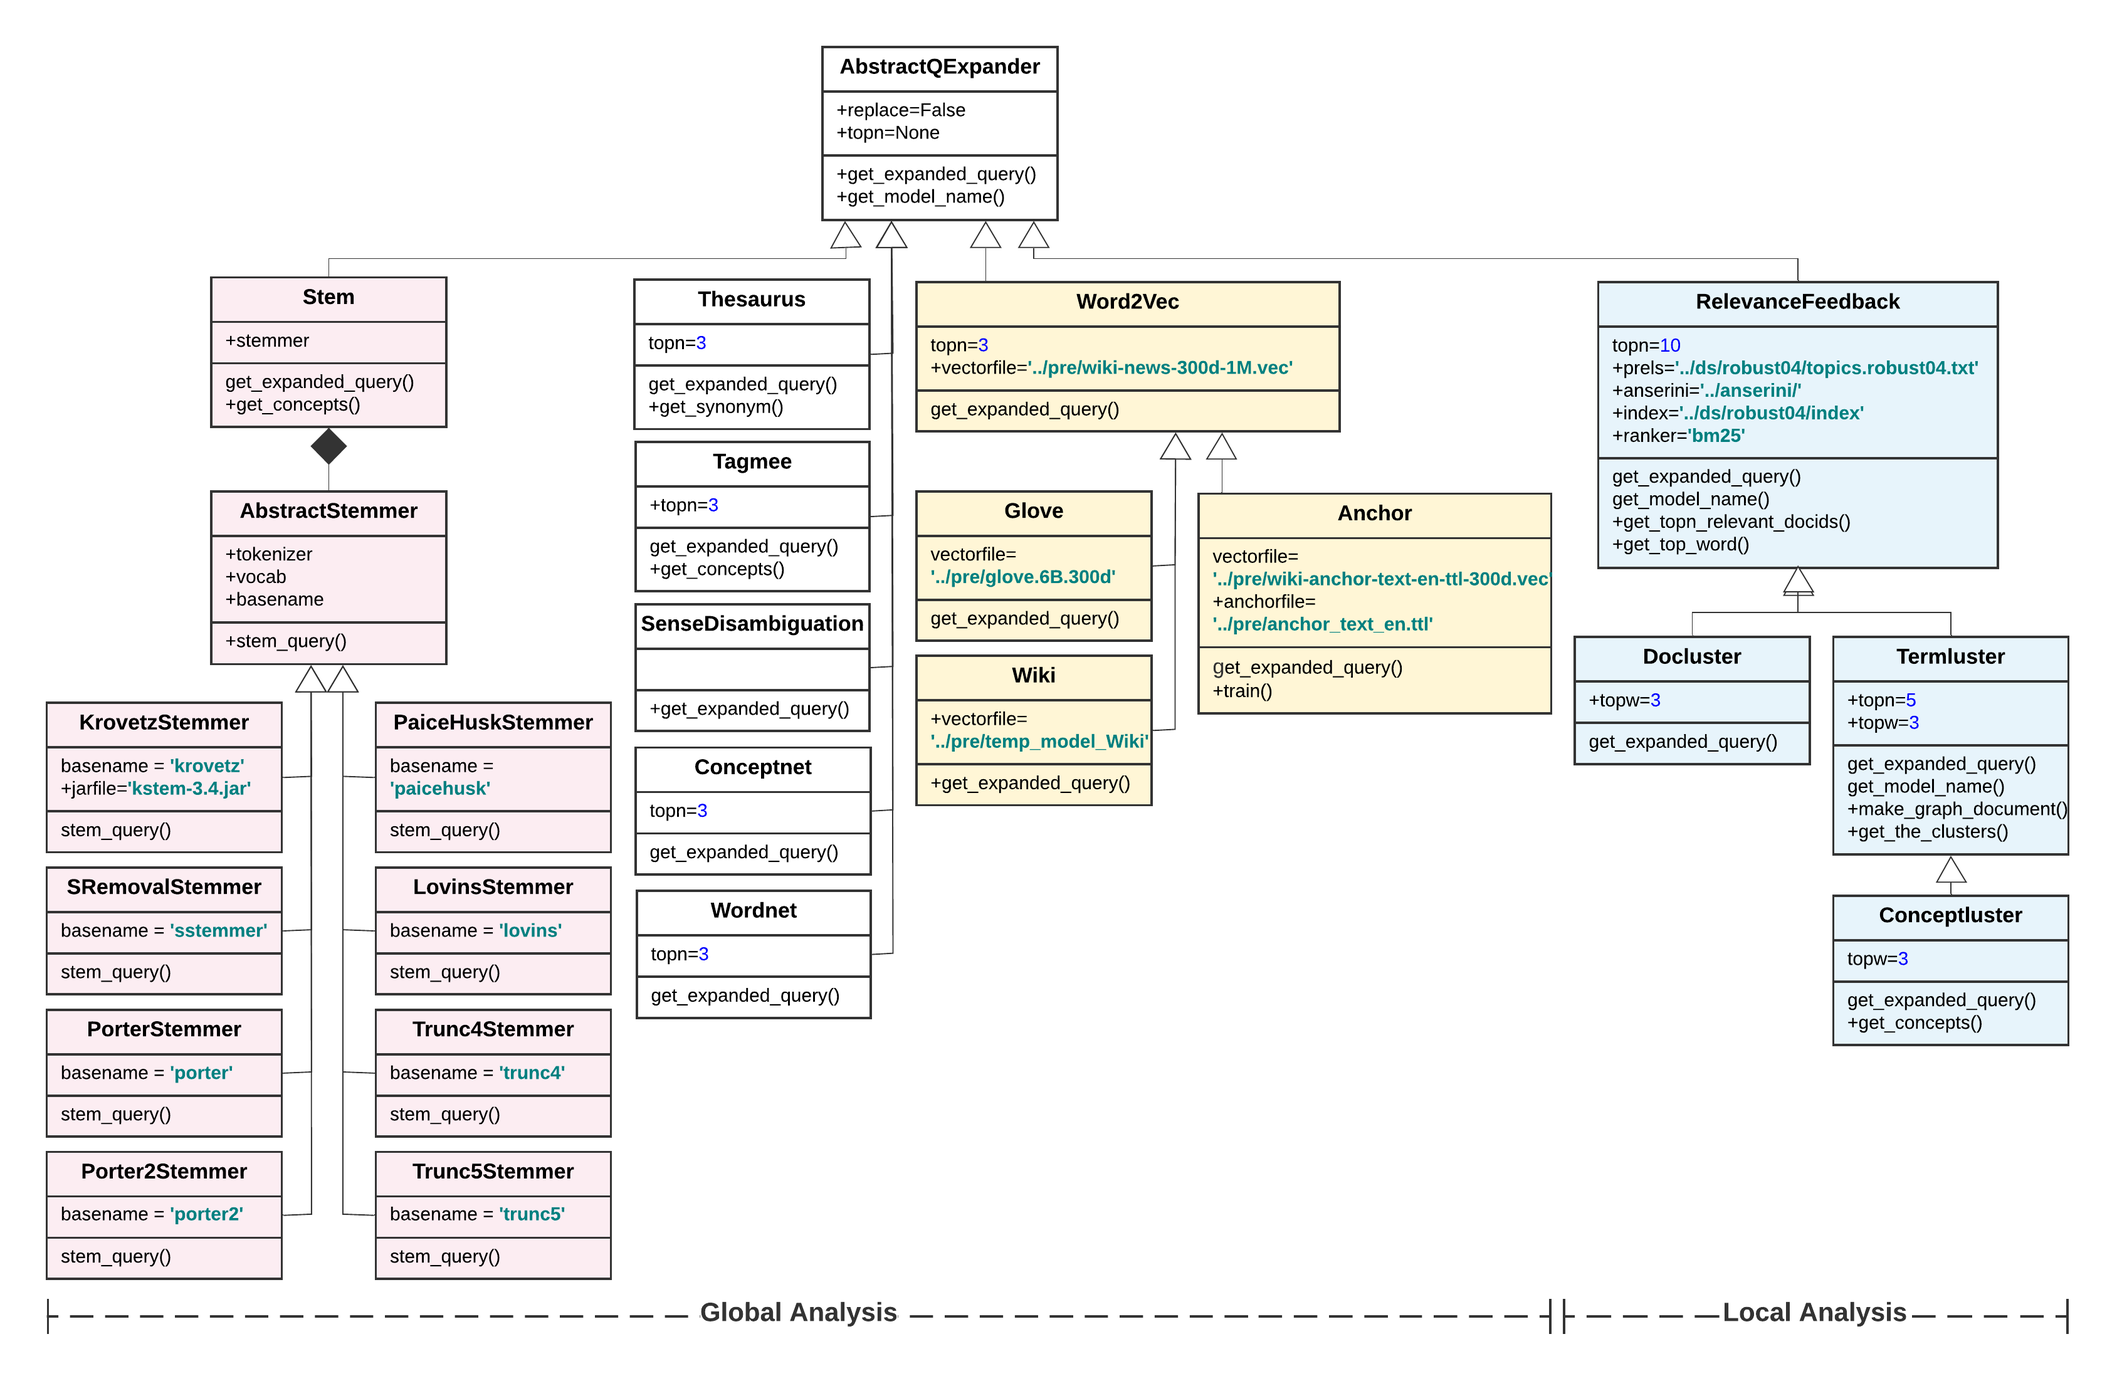
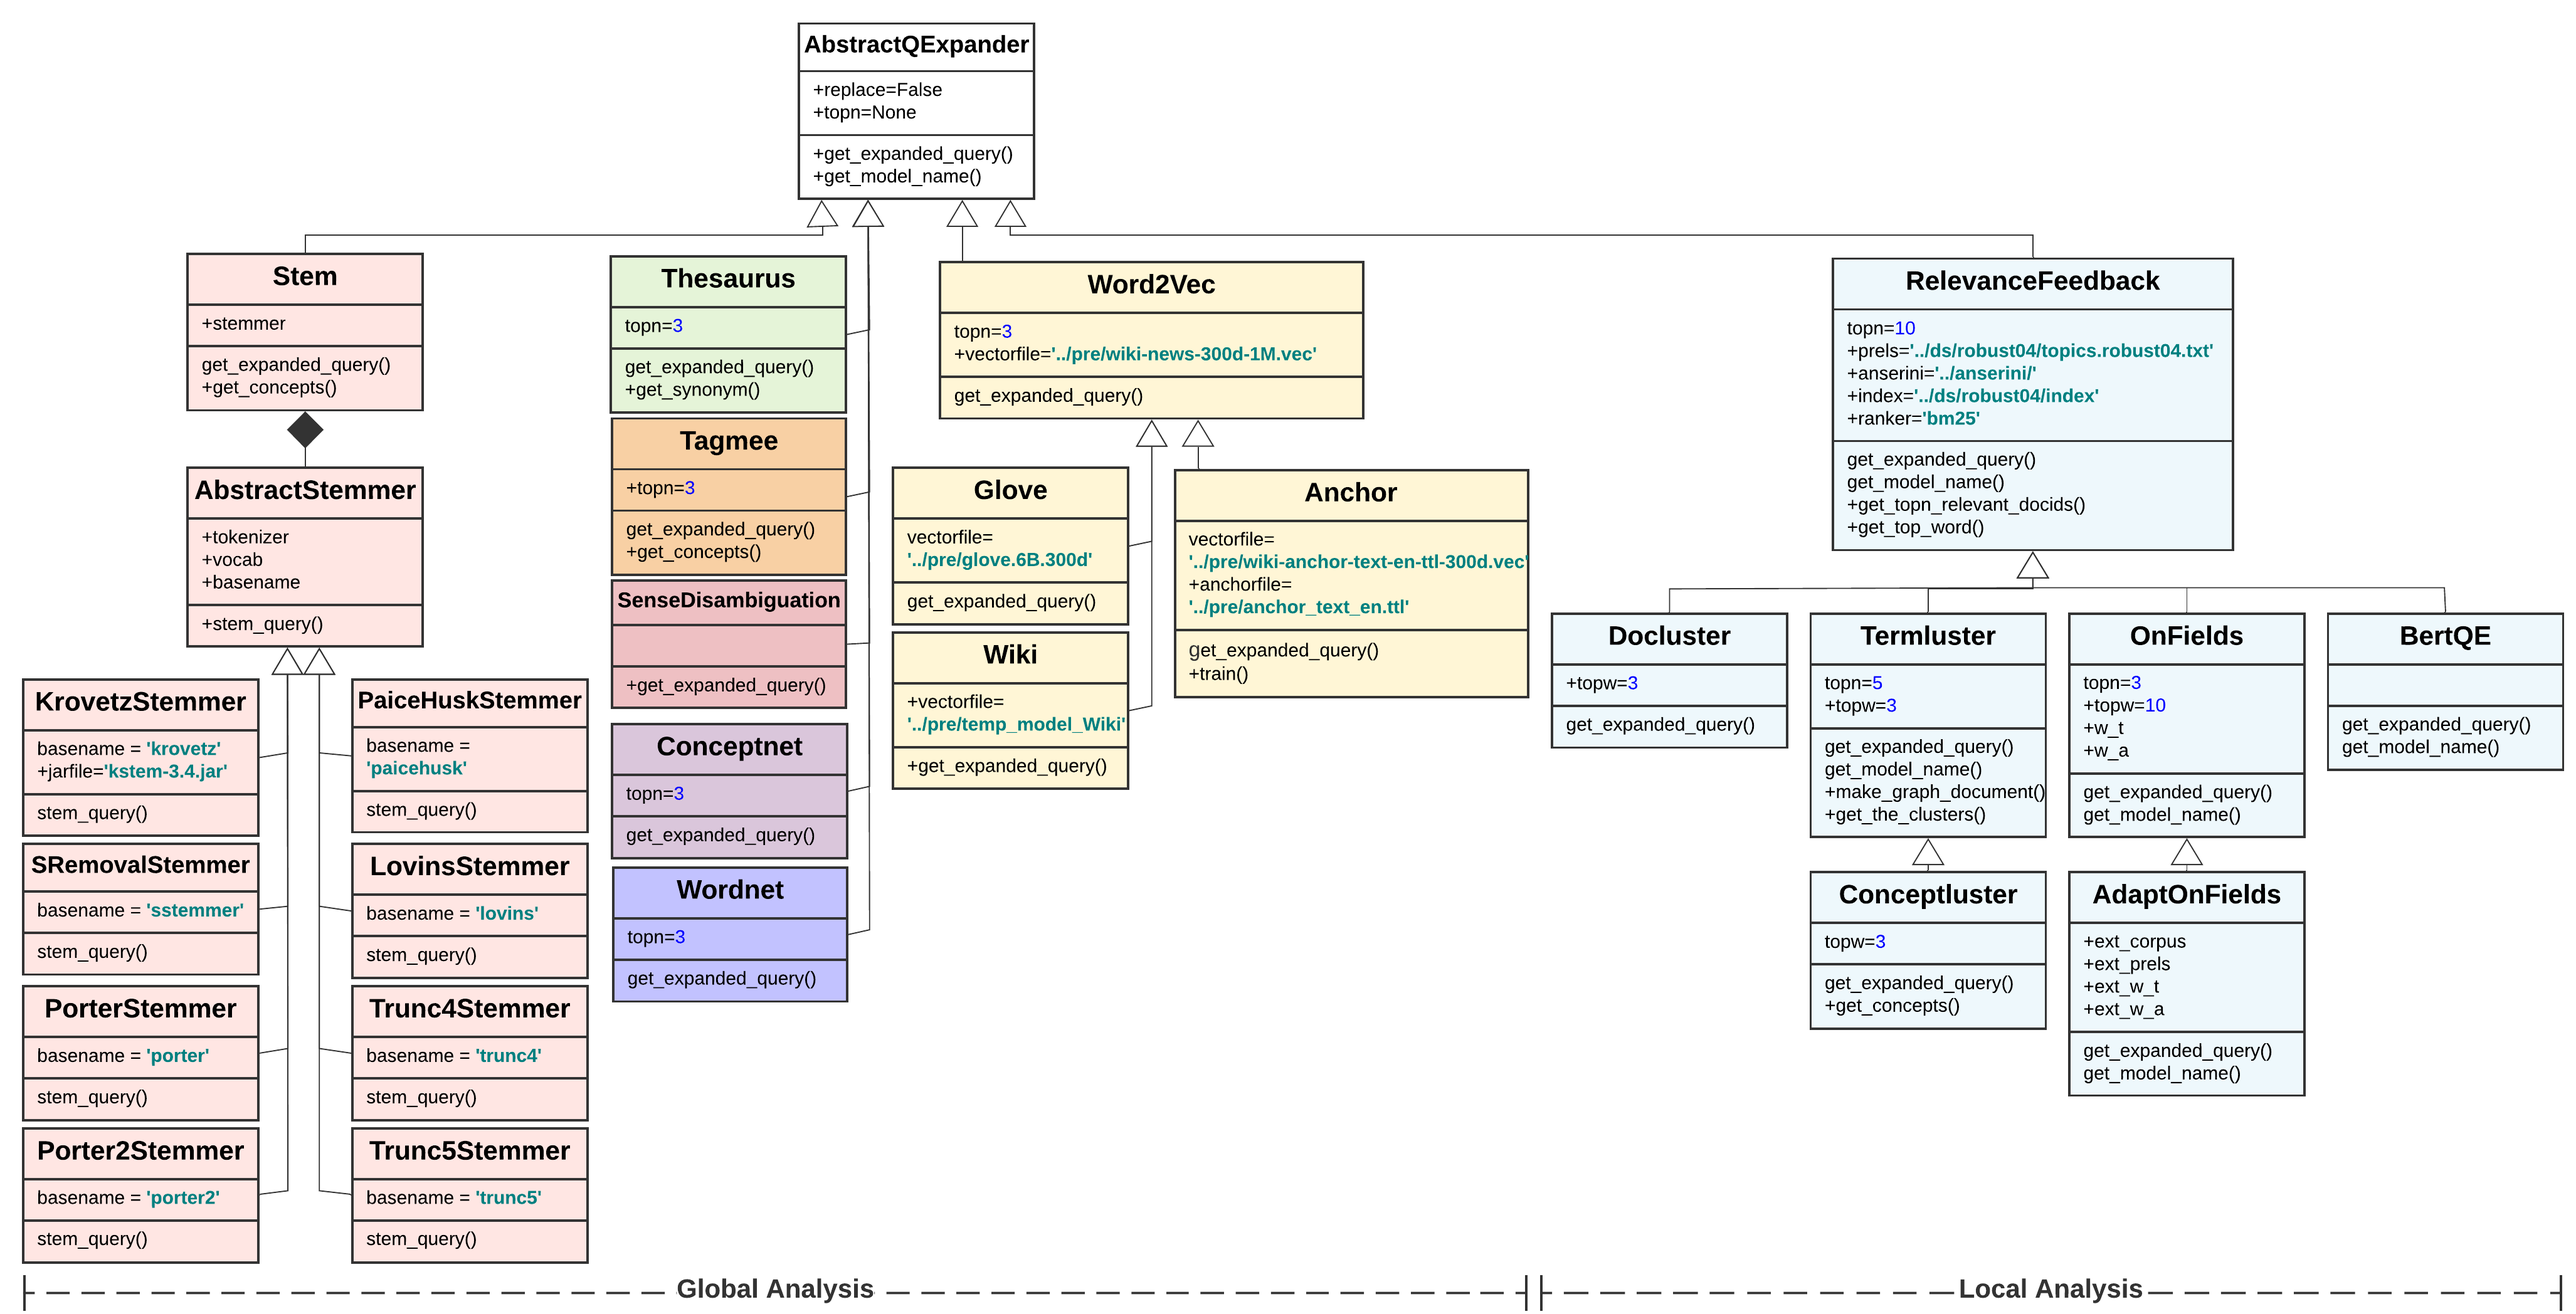
code refactor and new classdiagram

Changed region(s): [[0.0, 0.031, 1.0, 0.9614], [0.2487, 0.9303, 0.4353, 0.9924], [0.7462, 0.9303, 0.9017, 0.9924]]

diff --git a/qe/expanders/onfields.py b/qe/expanders/onfields.py
@@ -14,10 +14,6 @@ import pyserini
 from expanders.relevancefeedback import RelevanceFeedback
 from cmn import utils
 
-stop_words = set(stopwords.words('english'))
-ps = PorterStemmer()
-
-
 # @article{DBLP:journals/ipm/HeO07,
 #   author    = {Ben He and
 #                Iadh Ounis},
@@ -35,10 +31,10 @@ ps = PorterStemmer()
 # }
 
 class OnFields(RelevanceFeedback):
-    def __init__(self, ranker, prels, anserini, index, w_t, w_a, corpus_size, replace=False, topn=3, top_n_terms=10,adap=False):
+    def __init__(self, ranker, prels, anserini, index, w_t, w_a, corpus_size, replace=False, topn=3, topw=10,adap=False):
         RelevanceFeedback.__init__(self, ranker, prels, anserini, index, topn=topn)
         self.index_reader = pyserini.index.IndexReader(self.index)
-        self.top_n_terms=10
+        self.topw=10
         self.adap=adap
         self.w_t = w_t # weight for title field
         self.w_a = w_a # weight for anchor field
@@ -48,13 +44,13 @@ class OnFields(RelevanceFeedback):
         q=q.translate(str.maketrans('', '', string.punctuation))
         qid=args[0]
         if self.adap == False:
-            top_3_docs = self.get_topn_relevant_docids(qid)
+            topn_docs = self.get_topn_relevant_docids(qid)
         elif self.adap == True:
-            top_3_docs=self.retrieve_and_get_topn_relevant_docids(ps.stem(q.lower()))
-        top_3_title=''
-        top_3_body=''
-        top_3_anchor=''
-        for docid in top_3_docs:
+            topn_docs=self.retrieve_and_get_topn_relevant_docids(ps.stem(q.lower()))
+        topn_title=''
+        topn_body=''
+        topn_anchor=''
+        for docid in topn_docs:
             raw_doc=self.extract_raw_documents(docid)
             raw_doc=raw_doc.lower()
             raw_doc= ''.join([i if ord(i) < 128 else ' ' for i in raw_doc])
@@ -80,14 +76,14 @@ class OnFields(RelevanceFeedback):
                 #'anchor' field do not exist
                 pass
 
-            top_3_title='{} {}'.format(top_3_title ,title)
-            top_3_anchor = '{} {}'.format(top_3_anchor,anchor)
-            top_3_body='{} {}'.format(top_3_body,body)
-        top_3_title=top_3_title.translate(str.maketrans('', '', string.punctuation))
-        top_3_anchor=top_3_anchor.translate(str.maketrans('', '', string.punctuation))
-        top_3_body=top_3_body.translate(str.maketrans('', '', string.punctuation))
-        all_top_3_docs=  '{} {} {}'.format(top_3_body, top_3_anchor ,top_3_title)
-        tfx = self.term_weighting(top_3_title,top_3_anchor,top_3_body)
+            topn_title='{} {}'.format(topn_title ,title)
+            topn_anchor = '{} {}'.format(topn_anchor,anchor)
+            topn_body='{} {}'.format(topn_body,body)
+        topn_title=topn_title.translate(str.maketrans('', '', string.punctuation))
+        topn_anchor=topn_anchor.translate(str.maketrans('', '', string.punctuation))
+        topn_body=topn_body.translate(str.maketrans('', '', string.punctuation))
+        all_topn_docs=  '{} {} {}'.format(topn_body, topn_anchor ,topn_title)
+        tfx = self.term_weighting(topn_title,topn_anchor,topn_body)
         tfx=dict(sorted(tfx.items(), key=lambda x: x[1])[::-1])
         w_t_dic={}
         c=0
@@ -121,12 +117,12 @@ class OnFields(RelevanceFeedback):
         for keys,values in sorted_term_weights.items():
             counter=counter+1
             top_n_informative_words[keys]=values
-            if counter>self.top_n_terms:
+            if counter>self.topw:
                 break
 
         expanded_term_freq= {}
         for keys,values in top_n_informative_words.items():
-            expanded_term_freq[keys]=all_top_3_docs.count(keys)
+            expanded_term_freq[keys]=all_topn_docs.count(keys)
 
         for keys,values in top_n_informative_words.items():
             part_A = expanded_term_freq[keys] /max(expanded_term_freq.values())
@@ -141,7 +137,7 @@ class OnFields(RelevanceFeedback):
 
     def get_model_name(self):
         return super().get_model_name().replace('topn{}'.format(self.topn),
-                                                'topn{}.{}.{}.{}'.format(self.topn, self.top_n_terms, self.w_t, self.w_a))
+                                                'topn{}.{}.{}.{}'.format(self.topn, self.topw, self.w_t, self.w_a))
 
     def write_expanded_queries(self, Qfilename, Q_filename,clean=False):
         return super().write_expanded_queries(Qfilename, Q_filename, clean=False)
@@ -194,17 +190,17 @@ class OnFields(RelevanceFeedback):
             return anchor_out
     
 
-    def term_weighting(self,top_3_title,top_3_anchor,top_3_body):
+    def term_weighting(self,topn_title,topn_anchor,topn_body):
         # w_t and w_a is tuned for all the copora ( should be tuned for future corpora as well)
 
         w_b = 1 
-        top_3_title=top_3_title.translate(str.maketrans('', '', string.punctuation))
-        top_3_body=top_3_body.translate(str.maketrans('', '', string.punctuation))
-        top_3_anchor=top_3_anchor.translate(str.maketrans('', '', string.punctuation))
+        topn_title=topn_title.translate(str.maketrans('', '', string.punctuation))
+        topn_body=topn_body.translate(str.maketrans('', '', string.punctuation))
+        topn_anchor=topn_anchor.translate(str.maketrans('', '', string.punctuation))
 
-        title_tokens = word_tokenize(top_3_title) 
-        body_tokens= word_tokenize(top_3_body) 
-        anchor_tokens= word_tokenize(top_3_anchor)
+        title_tokens = word_tokenize(topn_title)
+        body_tokens= word_tokenize(topn_body)
+        anchor_tokens= word_tokenize(topn_anchor)
 
         filtered_words_title = [ps.stem(word) for word in title_tokens if word not in stop_words]
         filtered_words_body = [ps.stem(word) for word in body_tokens if word not in stop_words]

diff --git a/qe/expanders/bertqe.py b/qe/expanders/bertqe.py
@@ -8,7 +8,6 @@ import subprocess, string
 import nltk
 from bs4 import BeautifulSoup
 from nltk.tokenize import word_tokenize
-from nltk.stem import PorterStemmer
 from collections import Counter
 from nltk.corpus import stopwords
 from pygaggle.rerank.base import Query, Text
@@ -21,7 +20,6 @@ from pygaggle.rerank.base import hits_to_texts
 from expanders.relevancefeedback import RelevanceFeedback
 from cmn import utils
 
-ps = PorterStemmer()
 reranker =  MonoBERT()
 
 #@inproceedings{zheng-etal-2020-bert,
@@ -45,16 +43,16 @@ class BertQE(RelevanceFeedback):
     def get_expanded_query(self, q, args):
         q=q.translate(str.maketrans('', '', string.punctuation))
         qid=args[0]
-        top_10_docs = self.get_topn_relevant_docids(qid)
+        topn_docs = self.get_topn_relevant_docids(qid)
         print()
-        top_10_text=""
-        for docid in top_10_docs:
+        topn_text=""
+        for docid in topn_docs:
             raw_doc=self.index_reader.doc_raw(docid).lower()
             raw_doc= ''.join([i if ord(i) < 128 else ' ' for i in raw_doc])
-            top_10_text= top_10_text+ ' ' + raw_doc
+            topn_text= topn_text+ ' ' + raw_doc
 
         chunk_dic_for_bert=[]
-        chunks=self.make_chunks(top_10_text)
+        chunks=self.make_chunks(topn_text)
         for i in range(len(chunks)):
             chunk_dic_for_bert.append([i,chunks[i]])
 

diff --git a/qe/expanders/adaponfields.py b/qe/expanders/adaponfields.py
@@ -15,10 +15,6 @@ from pyserini import analysis, index
 from expanders.onfields import OnFields
 from cmn import utils
 
-stop_words = set(stopwords.words('english'))
-ps = PorterStemmer()
-
-
 # @article{DBLP:journals/ipm/HeO07,
 #   author    = {Ben He and
 #                Iadh Ounis},
@@ -39,8 +35,8 @@ class AdapOnFields(OnFields):
 
     def __init__(self, ranker, prels, anserini, index, w_t, w_a,corpus_size, collection_tokens,  
                  ext_index, ext_corpus,ext_prels, ext_collection_tokens, ext_w_t, ext_w_a, ext_corpus_size,
-                 replace=False, topn=3, top_n_terms=10, adap=False):
-        OnFields.__init__(self, ranker, prels, anserini, index, w_t, w_a,corpus_size, topn=topn, replace=replace, top_n_terms=top_n_terms, adap=adap)
+                 replace=False, topn=3, topw=10, adap=False):
+        OnFields.__init__(self, ranker, prels, anserini, index, w_t, w_a,corpus_size, topn=topn, replace=replace, topw=topw, adap=adap)
 
         self.collection_tokens = collection_tokens  # number of tokens in the collection
 

diff --git a/qe/cmn/utils.py b/qe/cmn/utils.py
@@ -1,10 +1,13 @@
 from nltk.corpus import stopwords
 from nltk.tokenize import word_tokenize
+from nltk.stem import PorterStemmer
 import re
 
 stop_words = set(stopwords.words('english'))
 l = ['.', ',', '!', '?', ';', 'a', 'an', '(', ')', "'", '_', '-', '<', '>', 'if', '/', '[', ']', '&nbsp;']
 stop_words.update(l)
+
+ps = PorterStemmer()
 
 def get_tokenized_query(q):
     word_tokens = word_tokenize(q)
